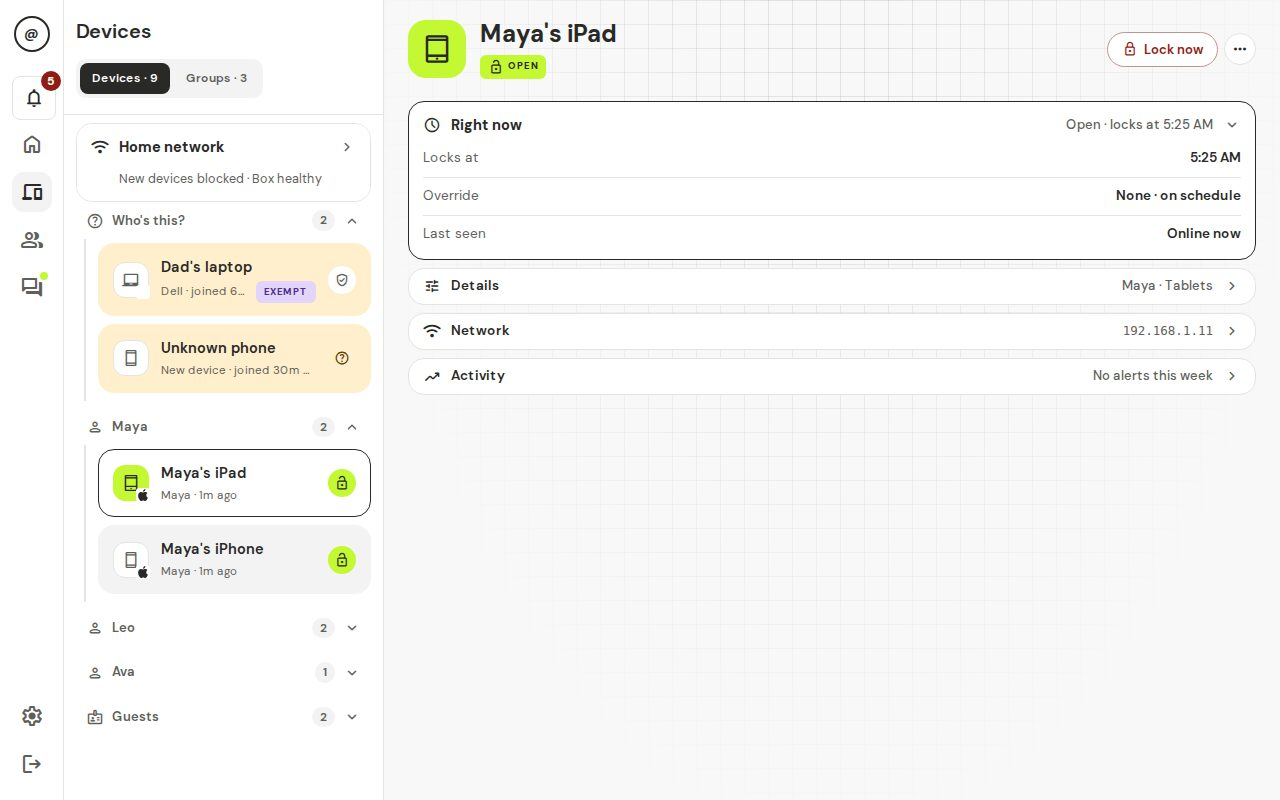
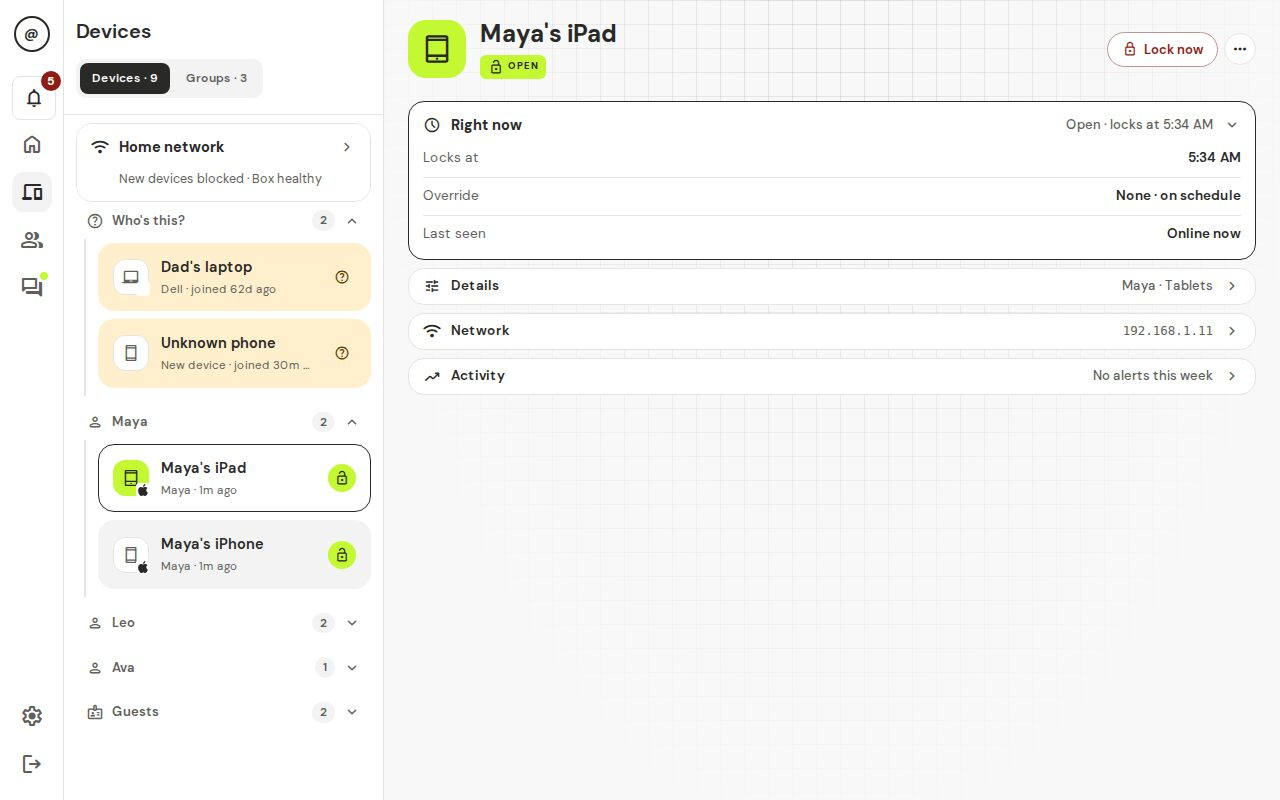
docs(guide): fix trust row and view-as-kid wording
Claude-Session: https://claude.ai/code/session_011K7jrVbDK9XkJbLGVTb23M

diff --git a/docs/guide/04-everyday-use.md b/docs/guide/04-everyday-use.md
@@ -13,7 +13,7 @@ This is the page you will use most.
 
 ![Today on a computer: Needs you, a card for each kid and Devices](img/today.jpg)
 
-Today starts calm: a **Needs you** bar when something is waiting, one card for each kid, and a **Devices** line. Nothing else is on screen until you ask for it. A Happy Hour that is running shows as a small chip at the top. To start one, tap the **…** at the top right of Today and choose **Start Happy Hour** (see [Happy Hour](#happy-hour)).
+Today starts calm: a **Needs you** bar when something is waiting, one card for each kid, and a **Devices** line. Only a little else shows: a small chip while a Happy Hour runs, and now and then one tip card. A Happy Hour that is running shows as a small chip at the top. To start one, tap the **…** at the top right of Today and choose **Start Happy Hour** (see [Happy Hour](#happy-hour)).
 
 ![One kid's day: chores on the left, requests on the right](img/today-kid.jpg)
 
@@ -94,9 +94,9 @@ If you change a chore's name, points or steps, the change shows up everywhere, i
 
 Open a kid to see a short page: their points, level and a few rows (**Trust**, **Devices**, **Chores**, **Settings**). Open a row to see more. Tap the **points chip** to see their points history. The buttons at the top:
 
-- **Edit** and a **More** (three dots) menu. Happy Hour now starts from the **…** on Today.
+- **Edit** and **More** (three dots) are at the top. Happy Hour starts from the **…** on Today.
 - **Edit**: change their name, avatar, PIN or **Age group** (Little, Kid or Teen).
-- **More** holds **Bonus** (give 1 to 500 points with a short note; they get a celebration), **Deduct** (take points away, with a reason the kid can see) and, on a phone, **View as kid**. On a computer **View as kid** is its own button.
+- **More** holds **Bonus** (give 1 to 500 points with a short note; they get a celebration), **Deduct** (take points away, with a reason the kid can see) and **View as kid**.
 
 ## Rewards and screen time
 
@@ -177,7 +177,7 @@ Cards on **Today** introduce each of these features, at most one new card a day.
 
 - **Kids & chores → Rewards → Happy Hour**: lengths, multiplier, auto boost and weekly surprise.
 - **Settings → Family → Points rules → Streak freezes**.
-- **Kids & chores → Kids → a kid's page → Celebrations**.
+- **Kids & chores → Kids → a kid's page → Settings → Celebrations**.
 
 ## Less tapping
 
@@ -185,7 +185,7 @@ Two optional ways to approve less by hand, and a weekly summary. Trust mode and 
 
 ### Trust mode
 
-Trust mode is per kid. Turn it on from the **Trust mode** card on the kid's page (**Kids & chores → the kid**). Its level then decides what happens when that kid finishes a chore:
+Trust mode is per kid. Turn it on in the **Trust** row on the kid's page (**Kids & chores → the kid**). Its level then decides what happens when that kid finishes a chore:
 
 | Level | When the kid finishes a chore |
 |---|---|
@@ -193,7 +193,7 @@ Trust mode is per kid. Turn it on from the **Trust mode** card on the kid's page
 | **Trusted** | Approves itself. 1 chore in 5 stays waiting as a spot check. |
 | **Proven** | Approves itself. 1 chore in 20 stays waiting as a spot check. |
 
-![The Trust mode card: level, progress and chores that approved on their own](img/trust-kid.jpg)
+![The Trust row open: level, progress and chores that approved on their own](img/trust-kid.jpg)
 
 - Everyone starts at **New** with a count of 0. Each chore approved after that counts, whether you approved it or it approved itself. After 10, a New kid becomes **Trusted**. After 30 more, a Trusted kid becomes **Proven**. You and the kid both get a message.
 - **Change** sets any level by hand, including Proven on day one.
@@ -226,7 +226,7 @@ Every Sunday at 7:30 PM you get "Your week at (your family)" in your inbox, plus
 
 ### Where the settings live
 
-- **Kids & chores → the kid → Trust mode**, and **Always check** on each chore.
+- **Kids & chores → the kid → Trust**, and **Always check** on each chore.
 - **Settings → Family → Bedtime & recap**: **Bedtime auto-approve** (with its time) and **Weekly recap**.
 
 ![Bedtime & recap in Settings → Family](img/extras.jpg)
